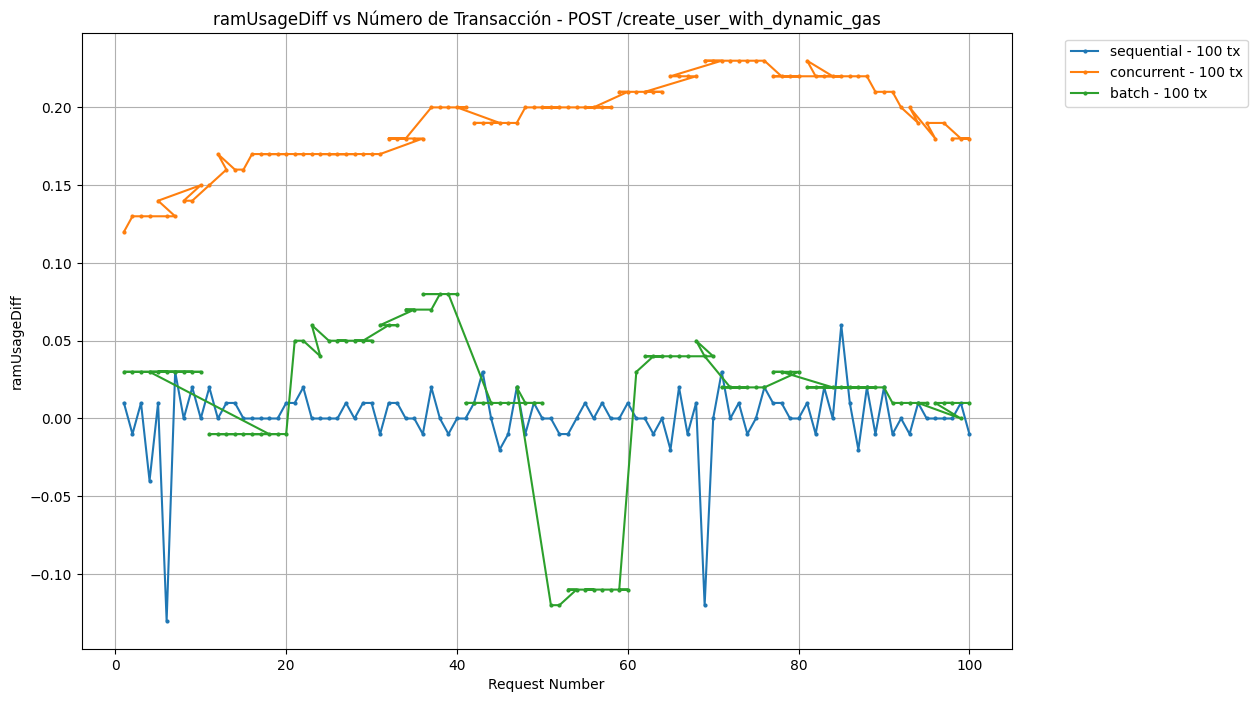
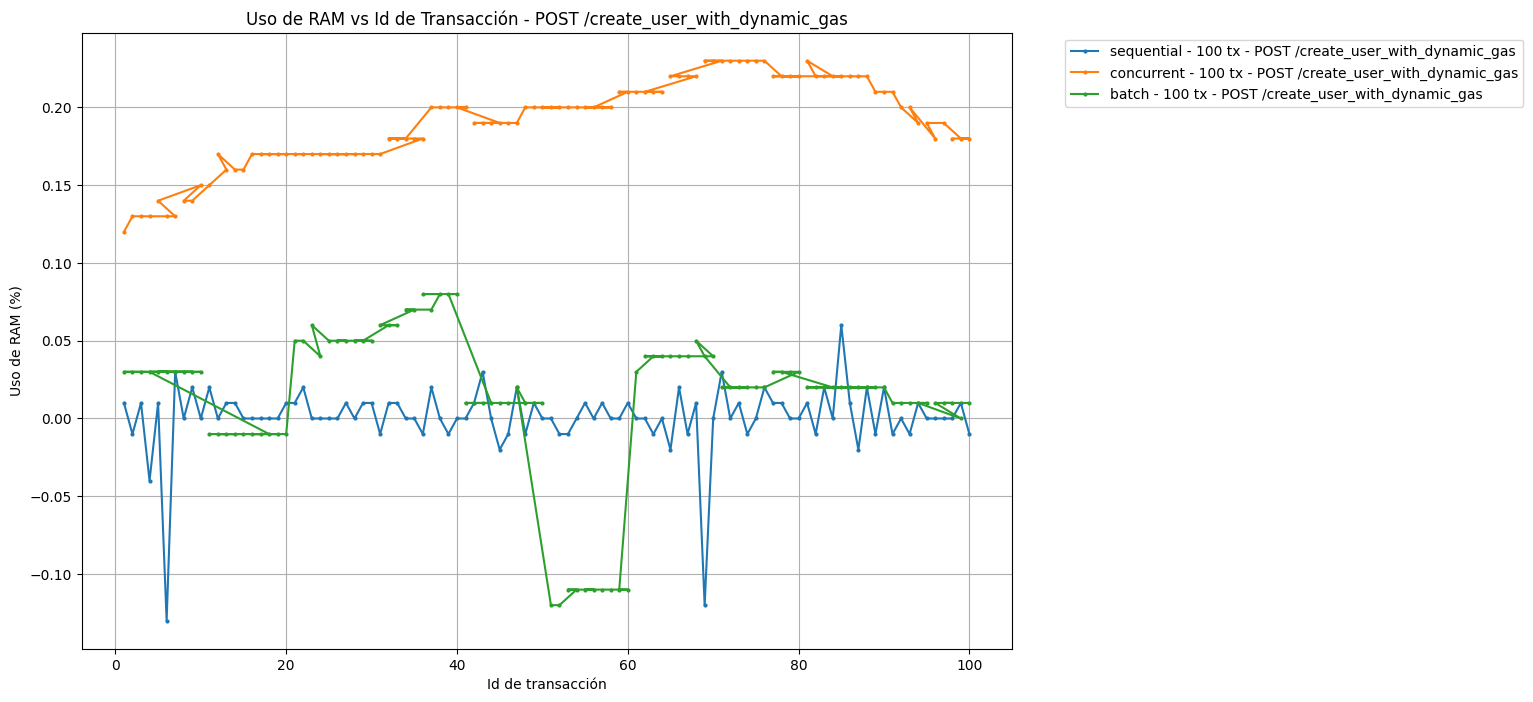
cambie los labels

diff --git a/API/logging_middleware.js b/API/logging_middleware.js
@@ -50,13 +50,14 @@ function logRequestToTxt(req, res, next) {
         const requestNumber = res.locals.requestNumber || 'N/A';
         // Obtener 'testType' directamente de la solicitud
         const testType = req.body.testType || req.query.testType || 'N/A';
+        const route = `${req.method} ${req.originalUrl.split('?')[0]}`; // Asegurar que solo se registra la ruta base
 
         const logEntry = `
         Time: ${new Date().toISOString()}
         Request Number: ${requestNumber}
         GroupID: ${groupID}
         Total Transactions: ${totalTransactions}
-        Route: ${req.method} ${req.originalUrl}
+        Route: ${route}
         Method: ${req.method}
         RefTime (Gas Computacional): ${res.locals.refTime || 'N/A'}
         ProofSize: ${res.locals.proofSize || 'N/A'}
@@ -98,13 +99,14 @@ function logRequestToJson(req, res, next) {
         const requestNumber = res.locals.requestNumber || 'N/A';
         // Obtener 'testType' directamente de la solicitud
         const testType = req.body.testType || req.query.testType || 'N/A';
+        const route = `${req.method} ${req.originalUrl.split('?')[0]}`; // Asegurar que solo se registra la ruta base
 
         const logEntry = {
             time: new Date().toISOString(),
             requestNumber: requestNumber,
             groupID: groupID,
             totalTransactions: totalTransactions,
-            route: `${req.method} ${req.originalUrl}`,
+            route: route,
             method: req.method,
             refTime: res.locals.refTime || 'N/A',
             proofSize: res.locals.proofSize || 'N/A',

diff --git a/API/stress_testing.js b/API/stress_testing.js
@@ -398,3 +398,43 @@ Selecciona la opción: `, (answer) => {
     }
 })();
 
+// Configurar los endpoints a probar
+const ENDPOINTS = [
+    { method: 'GET', url: '/get_role/' },
+    { method: 'GET', url: '/has_permission/' }
+];
+
+// Función para seleccionar un endpoint de forma aleatoria o equilibrada
+function chooseEndpoint() {
+    // Opcional: Implementar una distribución equitativa
+    const index = Math.floor(Math.random() * ENDPOINTS.length);
+    return ENDPOINTS[index];
+}
+
+// Función para realizar una solicitud
+async function sendRequest() {
+    const endpoint = chooseEndpoint();
+    const url = `http://${HOST}:${PORT}${endpoint.url}`;
+
+    try {
+        let response;
+        if (endpoint.method === 'GET') {
+            // Ejemplo de parámetros necesarios
+            const params = {
+                // Añadir parámetros según el endpoint
+            };
+            response = await axios.get(url, { params });
+        }
+        // Manejar otros métodos si es necesario
+
+        console.log(`Solicitud a ${endpoint.url} respondida con estado ${response.status}`);
+    } catch (error) {
+        console.error(`Error en solicitud a ${endpoint.url}: ${error.message}`);
+    }
+}
+
+// Iniciar las solicitudes
+for (let i = 0; i < TOTAL_REQUESTS; i++) {
+    sendRequest();
+}
+

diff --git a/API/graphs/graph_maker.py b/API/graphs/graph_maker.py
@@ -145,7 +145,7 @@ def parse_data(data):
                     'testType': test_type,  # Actualizado para usar test_type normalizado
                     'parametersLength': int(entry.get('parametersLength', 0)) if entry.get('parametersLength', 'N/A') != 'N/A' else 0,
                     'method': entry.get('method', 'Unknown'),
-                    'route': base_route  # Agregar este campo
+                    'route': base_route  # Asegurarse de que la ruta es limpia y consistente
                 }
                 parsed_data.append(parsed_entry)
             else:
@@ -180,6 +180,28 @@ def plot_metric_vs_time(data, metric, title, route):
         print(f"La métrica {metric} no existe en los datos")
         return
         
+    # Mapeo de métricas a etiquetas en español
+    metric_labels = {
+        'ramUsageDiff': 'Uso de RAM (%)',  # Añadido '%' al label de RAM
+        'cpuUsageDiff': 'Uso de CPU (%)',  # Ya existente
+        'transactionCost': 'Costo de Transacción',
+        'latency': 'Latencia'
+    }
+    
+    # Obtener la etiqueta correspondiente o usar el nombre original si no está mapeado
+    y_label = metric_labels.get(metric, metric)
+    
+    # Mapeo de métricas a títulos en español
+    title_labels = {
+        'ramUsageDiff': 'Uso de RAM vs Tiempo',
+        'cpuUsageDiff': 'Uso de CPU vs Tiempo',
+        'transactionCost': 'Costo de Transacción vs Tiempo',
+        'latency': 'Latencia vs Tiempo'
+    }
+
+    # Obtener el título en español correspondiente
+    title_label = title_labels.get(metric, title)
+    
     # Agrupar por tipo de prueba y número total de transacciones
     test_groups = {}
     for entry in data:
@@ -203,8 +225,12 @@ def plot_metric_vs_time(data, metric, title, route):
         print(f"Graficando {len(all_times)} puntos para {label}")
 
     plt.xlabel('Tiempo (segundos)')  # Cambiado a 'Tiempo (segundos)'
-    plt.ylabel(metric)
-    plt.title(f"{title} - {route}")
+    plt.ylabel(y_label)  # Usar la etiqueta en español correspondiente
+
+    #if metric == 'cpuUsageDiff' or metric == 'ramUsageDiff':  # Establecer el límite inferior del eje Y a 0% para CPU y RAM
+    #    plt.ylim(bottom=0)
+
+    plt.title(f"{title_label} - {route}")
     plt.legend(bbox_to_anchor=(1.05, 1), loc='upper left')
     plt.grid(True)
     
@@ -229,27 +255,53 @@ def plot_metric_vs_transaction(data, metric, title, route):
         print(f"La métrica {metric} no existe en los datos")
         return
         
+    # Mapeo de métricas a etiquetas en español
+    metric_labels = {
+        'ramUsageDiff': 'Uso de RAM (%)',  # Añadido '%' al label de RAM
+        'cpuUsageDiff': 'Uso de CPU (%)',  # Ya existente
+        'transactionCost': 'Costo de Transacción',
+        'latency': 'Latencia'
+    }
+    
+    # Obtener la etiqueta correspondiente o usar el nombre original si no está mapeado
+    y_label = metric_labels.get(metric, metric)
+    
+    # Mapeo de métricas a títulos en español
+    title_labels = {
+        'ramUsageDiff': 'Uso de RAM vs Id de Transacción',
+        'cpuUsageDiff': 'Uso de CPU vs Id de Transacción',
+        'transactionCost': 'Costo de Transacción vs Id de Transacción',
+        'latency': 'Latencia vs Id de Transacción'
+    }
+
+    # Obtener el título en español correspondiente
+    title_label = title_labels.get(metric, title)
+    
     # Agrupar por tipo de prueba y número total de transacciones
     test_groups = {}
     for entry in data:
-        key = (entry['testType'], entry['totalTransactions'])
+        key = (entry['testType'], entry['totalTransactions'], entry['route'])  # Incluir ruta en la agrupación
         if key not in test_groups:
             test_groups[key] = []
         test_groups[key].append(entry)
 
     # Plotear cada tipo de test
-    for (test_type, total_tx), entries in test_groups.items():
+    for (test_type, total_tx, route), entries in test_groups.items():
         # Obtener los requestNumbers y las métricas correspondientes
         request_numbers = [entry['requestNumber'] for entry in entries]
         metric_values = [float(entry[metric]) if entry[metric] else 0.0 for entry in entries]
         
-        label = f'{test_type} - {total_tx} tx'
+        label = f'{test_type} - {total_tx} tx - {route}'
         plt.plot(request_numbers, metric_values, label=label, marker='o', markersize=2)
         print(f"Graficando {len(request_numbers)} puntos para {label}")
 
-    plt.xlabel('Request Number')  # Cambiado a 'Request Number'
-    plt.ylabel(metric)
-    plt.title(f"{title} - {route}")
+    plt.xlabel('Id de transacción')  # Cambiado a 'Id de transacción'
+    plt.ylabel(y_label)  # Usar la etiqueta en español correspondiente
+
+    #if metric == 'cpuUsageDiff' or metric == 'ramUsageDiff':  # Establecer el límite inferior del eje Y a 0% para CPU y RAM
+    #    plt.ylim(bottom=0)
+
+    plt.title(f"{title_label} - {route}")
     plt.legend(bbox_to_anchor=(1.05, 1), loc='upper left')
     plt.grid(True)
     
@@ -264,12 +316,15 @@ def plot_metric_vs_transaction(data, metric, title, route):
     plt.close()
 
 def plot_transaction_cost_vs_length(data):
+    # Filtrar solo las solicitudes POST
+    post_data = [entry for entry in data if entry['method'].upper() == 'POST']
+    
     # Remover la gráfica y generar una tabla con media, mediana y moda
-    costs = [entry['transactionCost'] for entry in data if entry['transactionCost'] is not None]
-    lengths = [entry['parametersLength'] for entry in data if entry['parametersLength'] is not None]
+    costs = [entry['transactionCost'] for entry in post_data if entry['transactionCost'] is not None]
+    lengths = [entry['parametersLength'] for entry in post_data if entry['parametersLength'] is not None]
     
     if not costs or not lengths:
-        print("No hay datos suficientes para generar la tabla de costo de transacción por longitud.")
+        print("No hay datos suficientes para generar la tabla de costo de transacción por longitud para POST.")
         return
     
     # Calcular estadísticas
@@ -290,9 +345,9 @@ def plot_transaction_cost_vs_length(data):
     }
     
     df_table = pd.DataFrame(table)
-    print("Tabla de Costo de Transacción por Longitud:")
+    print("Tabla de Costo de Transacción por Longitud (Solo POST):")
     print(df_table)
-    df_table.to_csv('transaction_cost_per_length_stats.csv', index=False)
+    df_table.to_csv('transaction_cost_per_length_stats_post.csv', index=False)
 
 def calculate_statistics(data, metric):
     values = [entry[metric] for entry in data]
